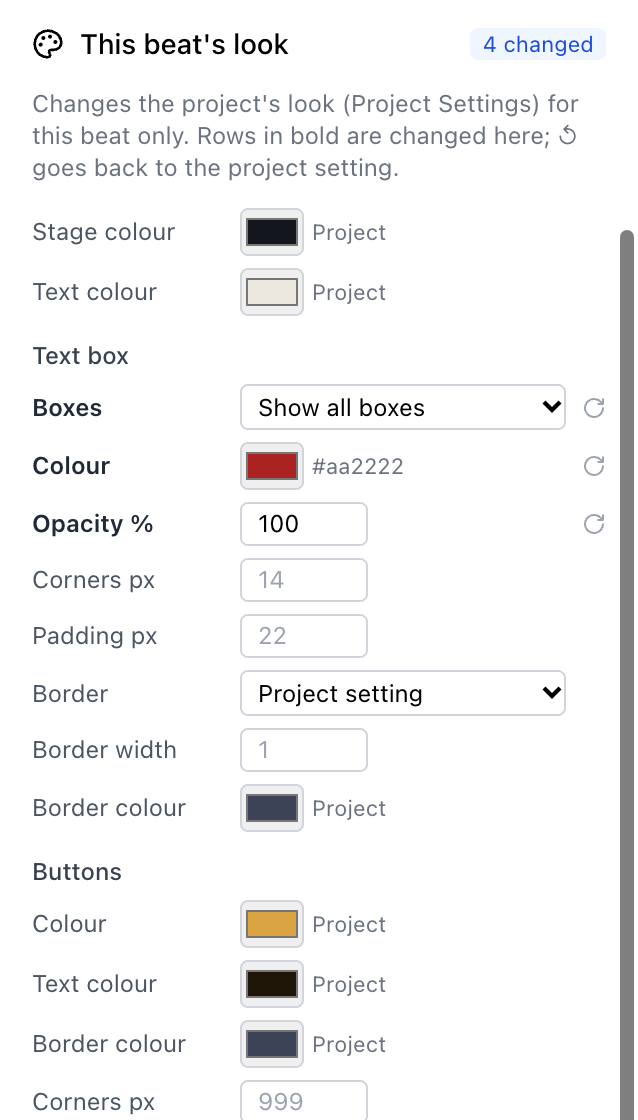
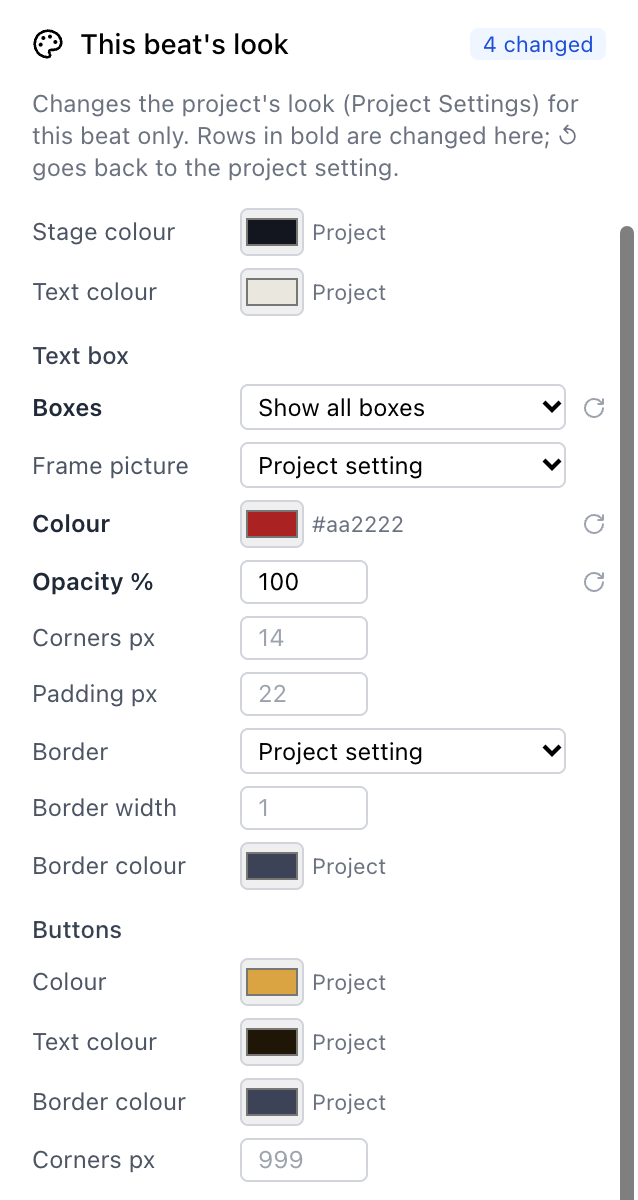
fix: the Undo history no longer carries over into the next project
PersistenceContext made its own CommandManager, but the editor, toolbar
and Cmd+Z use the shared getCommandManager() one, so the history resets
on opening/creating/deleting a project never reached it. It now uses the
shared manager. Also: UG screenshot 108 retaken with the Frame picture row.

Claude-Session: https://claude.ai/code/session_01EaMWVTtgvmkYMRuNpb9Wym

diff --git a/packages/builder/src/contexts/PersistenceContext.tsx b/packages/builder/src/contexts/PersistenceContext.tsx
@@ -10,7 +10,7 @@
 
 import React, { createContext, useContext, useState, useEffect, useCallback, useRef, ReactNode } from 'react';
 import { getStorageManager, getStorageAdapter, type Project, type StorageManager, type GlobalSettings } from '../storage';
-import { CommandManager, type Command } from '../commands';
+import { getCommandManager, type CommandManager, type Command } from '../commands';
 import { useAutoSave, type SaveStatus } from '../hooks/useAutoSave';
 import type { ProjectFormat } from '../storage/adapters/PersistenceAdapter';
 import { DirectoryAdapter, ConflictMarkersError, isElectronWithFS } from '../storage/adapters/DirectoryAdapter';
@@ -257,12 +257,11 @@ export const PersistenceProvider: React.FC<PersistenceProviderProps> = ({
 
   // Managers (created once)
   const [storage] = useState(() => getStorageManager({ debug }));
-  const [commandManager] = useState(() => new CommandManager({
-    projectId: initialProjectId,
-    maxHistory: 50,
-    autoSave: true,
-    debug,
-  }));
+  // The app-wide undo history (App and the toolbar use getCommandManager()).
+  // A private instance here meant the clears below never reached it, so a
+  // project's Undo history carried over into the next project. History is
+  // per session: it is emptied when the project changes, not stored.
+  const [commandManager] = useState<CommandManager>(() => getCommandManager());
 
   // Command manager state
   const [canUndo, setCanUndo] = useState(false);
@@ -633,8 +632,6 @@ export const PersistenceProvider: React.FC<PersistenceProviderProps> = ({
             currentProjectRef.current = result.data;
             deletionWatchRef.current.reset(result.data.id, result.data.story);
             setCurrentProject(result.data);
-            commandManager.setProjectId(initialProjectId);
-            await commandManager.loadFromStorage();
           }
         }
 
@@ -825,9 +822,8 @@ export const PersistenceProvider: React.FC<PersistenceProviderProps> = ({
       deletionWatchRef.current.reset(loadedProject.id, loadedProject.story);
       setCurrentProject(loadedProject);
 
-      // Update command manager
-      commandManager.setProjectId(projectId);
-      await commandManager.loadFromStorage();
+      // A new project starts with an empty Undo history
+      commandManager.clear();
 
       return true;
     } catch (error) {
@@ -918,7 +914,6 @@ export const PersistenceProvider: React.FC<PersistenceProviderProps> = ({
       deletionWatchRef.current.reset(newProject.id, newProject.story);
       setCurrentProject(newProject);
       setProjectId(newProjectId);
-      commandManager.setProjectId(newProjectId);
       commandManager.clear();
 
       // CRITICAL: Set isUntitledProject based on the project name
@@ -1231,7 +1226,6 @@ export const PersistenceProvider: React.FC<PersistenceProviderProps> = ({
       isUntitledProjectRef.current = false;
       setIsUntitledProject(false);
       // Note: hasUnsavedChanges will be cleared by saveNow() which sets status to 'saved'
-      commandManager.setProjectId(newProjectId);
       commandManager.clear();
 
       // Trigger a save to ensure everything is persisted
@@ -1348,7 +1342,6 @@ export const PersistenceProvider: React.FC<PersistenceProviderProps> = ({
         console.warn('[PersistenceProvider] Failed to sync directory project to IndexedDB:', e);
       }
 
-      commandManager.setProjectId(project.id);
       commandManager.clear();
 
       console.log('[PersistenceProvider] Opened directory project:', dirPath);

diff --git a/packages/builder/src/contexts/__tests__/PersistenceContext.test.tsx b/packages/builder/src/contexts/__tests__/PersistenceContext.test.tsx
@@ -19,6 +19,8 @@ import {
 } from '../PersistenceContext';
 import { resetStorageManager } from '../../storage/StorageManager';
 import { deleteDatabase } from '../../storage/schema';
+import { getCommandManager } from '../../commands';
+import type { Command } from '../../commands';
 
 const wrapper = ({ children }: { children: React.ReactNode }) =>
   React.createElement(PersistenceProvider, { autoSave: false }, children);
@@ -31,6 +33,7 @@ async function renderInitialized() {
 }
 
 afterEach(async () => {
+  getCommandManager().clear();
   resetStorageManager();
   await deleteDatabase();
 });
@@ -217,5 +220,37 @@ describe('loadProject saves the project being left', () => {
     await act(async () => { await result.current.loadProject(b); });
 
     expect(await storedHas(result, a, 'held-back')).toBe(false);
+  });
+});
+
+describe('Undo history belongs to the open project', () => {
+  const fakeEdit = (): Command => ({
+    type: 'test', description: 'edit in A',
+    execute: vi.fn(async () => {}), undo: vi.fn(async () => {}), redo: vi.fn(async () => {}),
+    canMergeWith: () => false, mergeWith: vi.fn(), toJSON: () => ({ type: 'test' }),
+  }) as unknown as Command;
+
+  it('the provider uses the app-wide history (the one Undo and the toolbar use)', async () => {
+    const { result } = await renderInitialized();
+    expect(result.current.commandManager).toBe(getCommandManager());
+  });
+
+  it("opening another project empties it — Undo can't replay the previous project's edits", async () => {
+    const { result } = await renderInitialized();
+    let a = '';
+    let b = '';
+    await act(async () => { b = await result.current.createProject('Project B'); });
+    await act(async () => { a = await result.current.createProject('Project A'); });
+    await waitFor(() => expect(result.current.currentProject?.id).toBe(a));
+
+    const edit = fakeEdit();
+    await act(async () => { await getCommandManager().execute(edit); });
+    expect(getCommandManager().canUndo()).toBe(true);
+
+    await act(async () => { await result.current.loadProject(b); });
+
+    expect(getCommandManager().canUndo()).toBe(false);
+    expect(getCommandManager().getHistorySize()).toBe(0);
+    expect(edit.undo).not.toHaveBeenCalled();
   });
 });

diff --git a/Progress.md b/Progress.md
@@ -1,5 +1,24 @@
 # ASAPS Modern - Progress Log
 
+## Unreleased (since v0.9.152, 2026-10-31)
+
+### Overview
+Fixed: the Undo history carried over from one project into the next, so Undo in the newly opened project could replay the previous project's edits. User Guide screenshot 108 retaken with the Frame picture row.
+
+### Fix: Undo history followed you into the next project
+- Found during the v0.9.152 release check: after switching from RED to another project, the history list still showed RED's steps. `PersistenceContext` made its own `CommandManager` (since the first commit), but the editor, the toolbar and ⌘Z use the shared one from `getCommandManager()`. Every history reset on opening, creating, deleting or opening a folder project went to the private instance, which nothing read. Undo after a switch could apply the old project's steps (by beat id) to the project now open.
+- `PersistenceContext` now uses the shared manager, so those resets reach the history everyone sees: a project opens with an empty Undo history. The history is not stored per project (the private instance's store-and-restore never reached the editor, and several command types can't be restored); it lasts for the session of one project, as it effectively always has.
+- Checked headless: change Frame picture in QA fixed boxes and undo it (history 0/1), open RED: no history; back to QA fixed boxes: none either. Tests in `PersistenceContext.test.tsx` (the provider uses the shared history; opening another project empties it and doesn't call the old step's undo), both failing before the fix. Builder suite 3142.
+- Noticed, not changed: right after opening a project the header says *Unsaved changes* (the old code does too); the next auto-save clears it.
+- Still open from the release check: Undo of a layout-mode switch doesn't switch back (see the v0.9.152 notes in memory).
+
+### User Guide
+- Screenshot 108 (*This beat's look*) retaken: it now shows the Frame picture row.
+
+**Files modified:** packages/builder/src/contexts/PersistenceContext.tsx, contexts/__tests__/PersistenceContext.test.tsx; docs/images/108-this-beats-look.png
+
+---
+
 ## 2026-10-31: The save-before-switching release (v0.9.152)
 
 ### Overview
